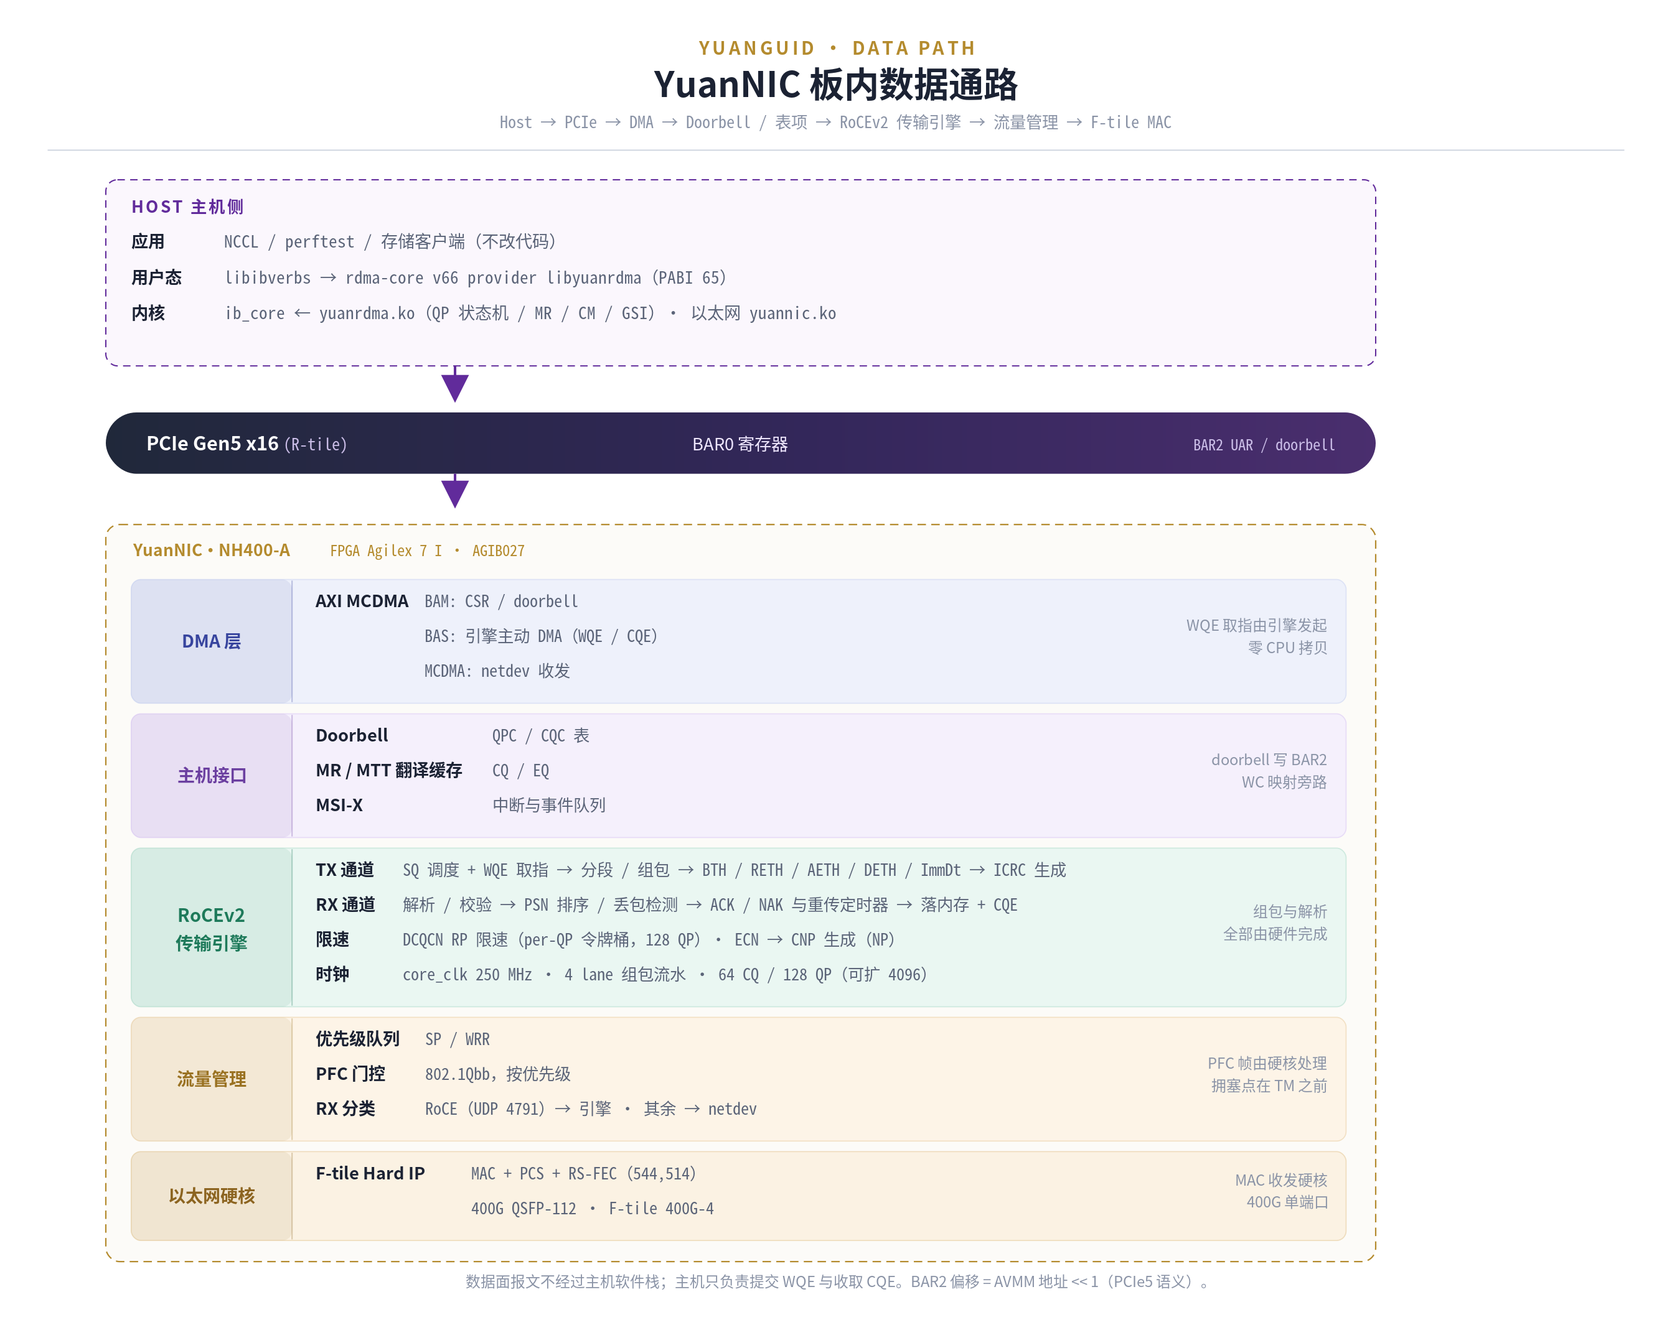
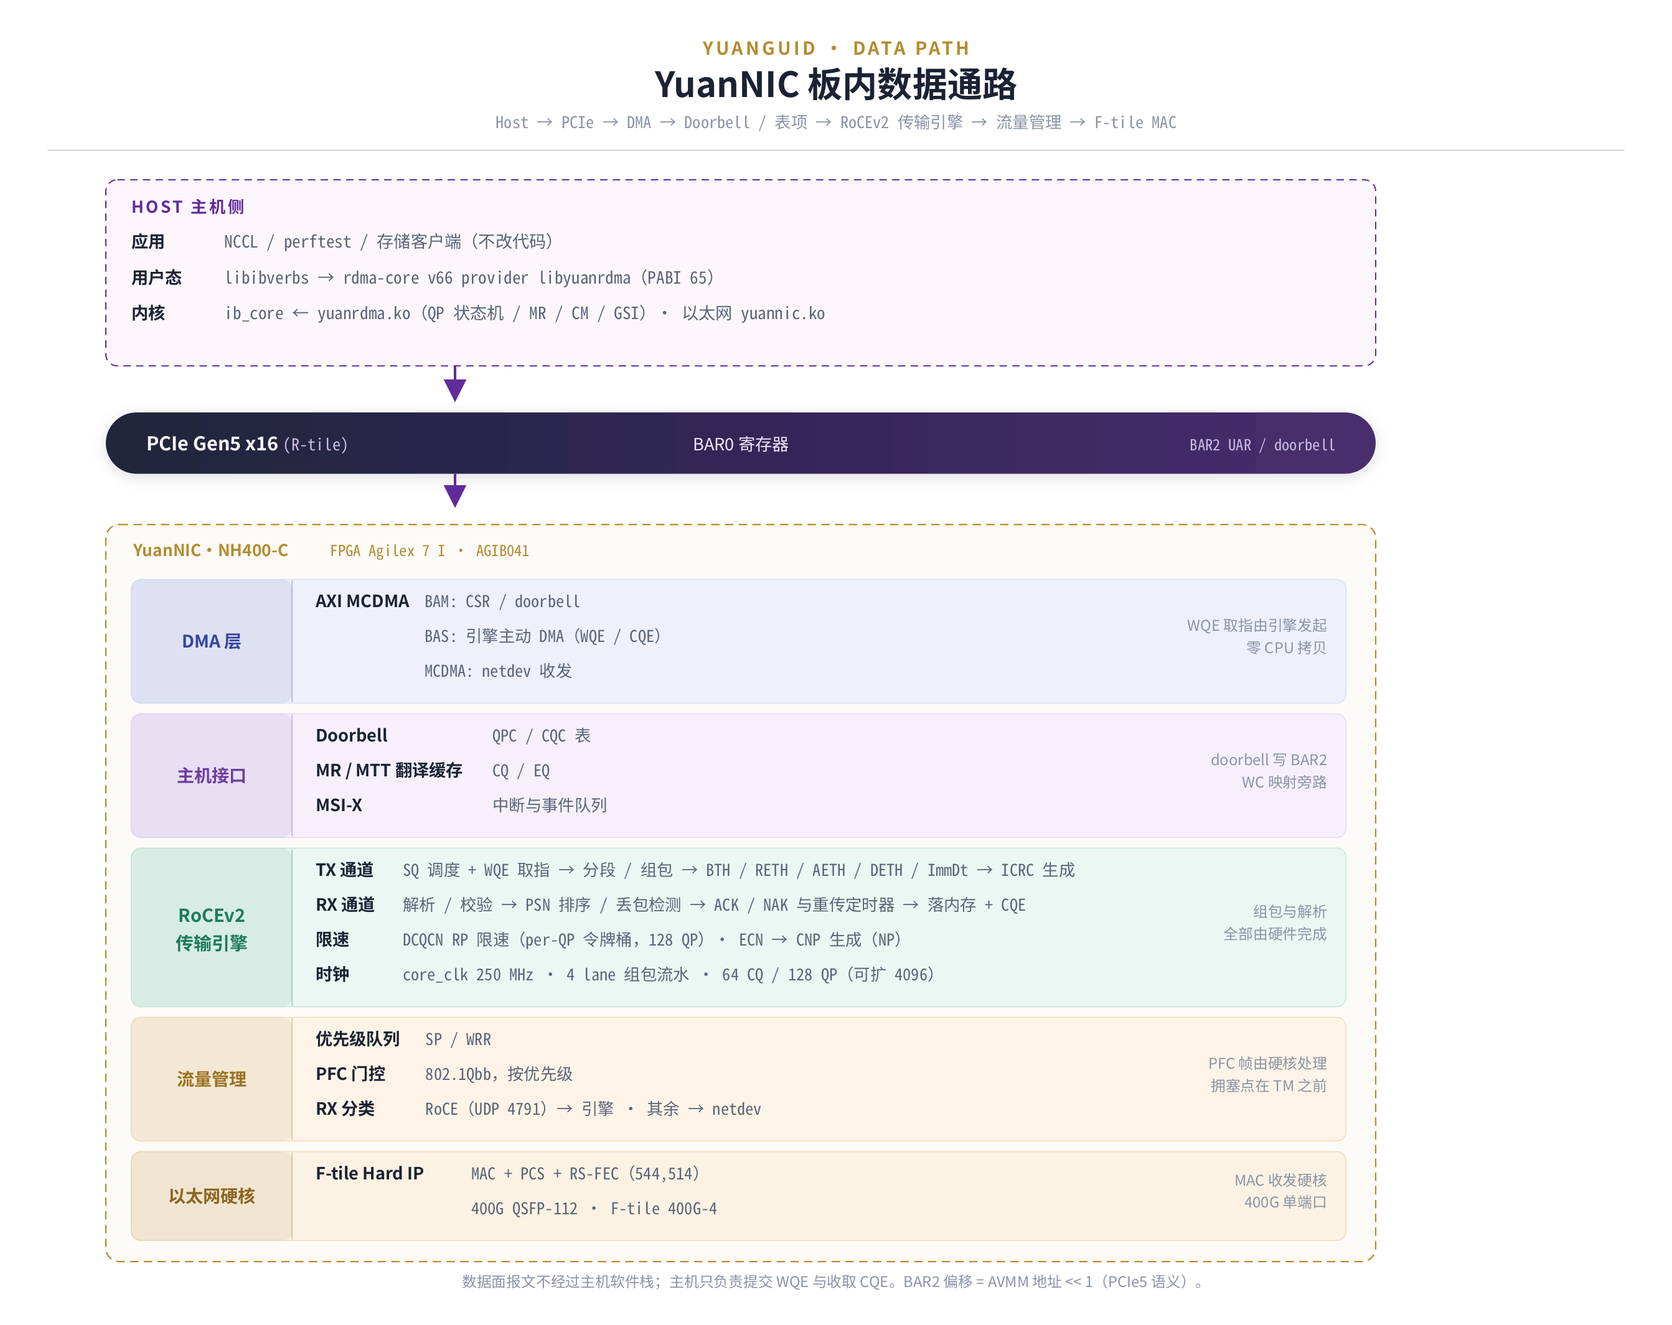
README：硬件规格与性能数据更新为 YuanNIC-NH400-C
- 硬件规格：FPGA 器件 AGIB041、网卡型号 YN400GA7B041C；尺寸、功耗等物理规格待补，暂去掉产品图
- 性能表与时延表换成 NH400-C 实测（镜像 R26.12.02-B0116，1 MiB / 30 s，双向）
- 架构图标注改为 NH400-C / AGIB041；INSTALL 的固件构建与交付包说明按单一板型更新

diff --git a/README.en.md b/README.en.md
@@ -146,7 +146,7 @@ Shipping forms include security gateways / firewalls, traffic-audit platforms, D
 ### 4.5 Continuous evolution
 
 - **Online firmware upgrade**: images are written to the configuration device over on-board Active Serial x4 (outputs `.sof` / `.rpd` / `.jic`). After the write the link re-enumerates and the drivers reload while the host OS keeps running — one script chains flash → re-enumerate → load drivers → configure network → self-check.
-- **Version rollback**: images are identified by version (card model `YN400GA7B027A` / C) and multiple versions coexist, so rolling back is flashing the previous image. Upgrades touch only the configuration device and install nothing into the host system.
+- **Version rollback**: images are identified by version (card model `YN400GA7B041C`) and multiple versions coexist, so rolling back is flashing the previous image. Upgrades touch only the configuration device and install nothing into the host system.
 - **Layered upgrades**: firmware, kernel drivers (built against `uname -r`), and the user-space provider and PMD evolve separately, so changing one does not disturb the others; with parameters readable and writable at run time, tuning needs no firmware rebuild and upgrading needs no OS reinstall.
 - **Diagnosable**: `yuancli` and `ynictrl` read registers and counters and export hang snapshots; together with perftest, `roce_perf_test.sh` regression runs and hardware-side packet capture, a fault can be traced from symptom to register state instead of guessed at.
 - **Interoperable with upper-layer software**: `rdma_cm`, NCCL and perftest keep their existing paths, while `yuancli` / `ynictrl` and the control plane expose read and drive access upward, so monitoring and policy fit into existing operations tooling.
@@ -184,18 +184,18 @@ Queues, tables and memory translation are consolidated below; the figures follow
 
 ## 6 Performance
 
-Setup: YuanNIC-NH400-A, peer NVIDIA ConnectX-7, 400GbE direct link, upstream perftest. Bandwidth cases use 1 MiB messages, 30 s each; latency cases use 2 B messages, 30 s each, and the tables list perftest's typical (median) values. Figures from image `R26.12.17-B6464-20261123-1X400G`.
+Setup: YuanNIC-NH400-C, peer NVIDIA ConnectX-7, 400GbE direct link, upstream perftest. Bandwidth cases use 1 MiB messages, 30 s each; latency cases use 2 B messages, 30 s each, and the tables list perftest's typical (median) values. Figures from image `R26.12.02-B0116-20261123-1X400G`.
 
 <table width="100%" style="width:100%;border:0;border-collapse:collapse">
 <tr><td style="border:0;padding:0">
 
 <table width="100%" style="width:100%">
 <tr><th style="width:26%">Test</th><th style="width:37%">YuanNIC as client</th><th style="width:37%">YuanNIC as server</th></tr>
-<tr><td style="width:26%"><code>ib_write_bw</code> (1 QP)</td><td style="width:37%"><strong>198.0 Gb/s (49.5%)</strong></td><td style="width:37%">99.9 Gb/s (25.0%)</td></tr>
-<tr><td style="width:26%"><code>ib_read_bw</code> (1 QP)</td><td style="width:37%">74.4 Gb/s (18.6%)</td><td style="width:37%">89.7 Gb/s (22.4%)</td></tr>
-<tr><td style="width:26%"><code>ib_send_bw</code> (1 QP)</td><td style="width:37%"><strong>198.1 Gb/s (49.5%)</strong></td><td style="width:37%">97.2 Gb/s (24.3%)</td></tr>
-<tr><td style="width:26%"><code>ib_write_bw</code> (4 QP)</td><td style="width:37%"><strong>352.1 Gb/s (88.0%)</strong></td><td style="width:37%">96.6 Gb/s (24.1%)</td></tr>
-<tr><td style="width:26%"><code>ib_read_bw</code> (4 QP)</td><td style="width:37%">99.3 Gb/s (24.8%)</td><td style="width:37%"><strong>328.2 Gb/s (82.1%)</strong></td></tr>
+<tr><td style="width:26%"><code>ib_write_bw</code> (1 QP)</td><td style="width:37%"><strong>198.1 Gb/s (49.5%)</strong></td><td style="width:37%">98.2 Gb/s (24.5%)</td></tr>
+<tr><td style="width:26%"><code>ib_read_bw</code> (1 QP)</td><td style="width:37%">74.4 Gb/s (18.6%)</td><td style="width:37%">89.8 Gb/s (22.5%)</td></tr>
+<tr><td style="width:26%"><code>ib_send_bw</code> (1 QP)</td><td style="width:37%"><strong>198.1 Gb/s (49.5%)</strong></td><td style="width:37%">97.4 Gb/s (24.4%)</td></tr>
+<tr><td style="width:26%"><code>ib_write_bw</code> (4 QP)</td><td style="width:37%"><strong>351.9 Gb/s (88.0%)</strong></td><td style="width:37%">96.9 Gb/s (24.2%)</td></tr>
+<tr><td style="width:26%"><code>ib_read_bw</code> (4 QP)</td><td style="width:37%">99.6 Gb/s (24.9%)</td><td style="width:37%"><strong>328.2 Gb/s (82.1%)</strong></td></tr>
 </table>
 
 </td></tr>
@@ -210,44 +210,34 @@ Latency (2 B messages, one-way, typical / p99):
 
 <table width="100%" style="width:100%">
 <tr><th style="width:26%">Test</th><th style="width:37%">YuanNIC as client</th><th style="width:37%">YuanNIC as server</th></tr>
-<tr><td style="width:26%"><code>ib_write_lat</code></td><td style="width:37%"><strong>2.46 / 2.69 µs</strong></td><td style="width:37%"><strong>2.44 / 2.66 µs</strong></td></tr>
-<tr><td style="width:26%"><code>ib_read_lat</code></td><td style="width:37%">3.68 / 3.97 µs</td><td style="width:37%">2.87 / 3.14 µs</td></tr>
-<tr><td style="width:26%"><code>ib_send_lat</code></td><td style="width:37%">2.38 / 2.54 µs</td><td style="width:37%">2.65 / 2.87 µs</td></tr>
+<tr><td style="width:26%"><code>ib_write_lat</code></td><td style="width:37%"><strong>2.53 / 2.75 µs</strong></td><td style="width:37%"><strong>2.45 / 2.65 µs</strong></td></tr>
+<tr><td style="width:26%"><code>ib_read_lat</code></td><td style="width:37%">4.25 / 4.50 µs</td><td style="width:37%">2.83 / 3.15 µs</td></tr>
+<tr><td style="width:26%"><code>ib_send_lat</code></td><td style="width:37%">2.75 / 2.92 µs</td><td style="width:37%">2.66 / 2.88 µs</td></tr>
 </table>
 
 </td></tr>
 </table>
 
-Write latency sits near 2.4 µs on both ends and barely moves with message size. Read latency is higher — 3.7 µs in the client direction — the cost of the responding data being copied serially on the receive side. p99 runs 0.1–0.3 µs above typical, most of it host-side interrupt and scheduling jitter; use typical when judging regressions across versions.
+Write latency sits near 2.5 µs on both ends and barely moves with message size. Read latency is higher — 4.3 µs in the client direction — the cost of the responding data being copied serially on the receive side. p99 runs 0.2–0.3 µs above typical, most of it host-side interrupt and scheduling jitter; use typical when judging regressions across versions.
 
 ## 7 Supported Hardware
 
 <table width="100%" style="width:100%;border:0;border-collapse:collapse">
-<tr>
-<td width="62%" valign="top" style="border:0;padding:0">
+<tr><td style="border:0;padding:0">
 
 <table width="100%" style="width:100%">
 <tr><th style="width:48%">Item</th><th style="width:52%">Specification</th></tr>
-<tr><td style="width:48%">Model</td><td style="width:52%">YuanNIC-NH400-A</td></tr>
-<tr><td style="width:48%">FPGA device</td><td style="width:52%">Agilex 7 I <code>AGIB027</code></td></tr>
+<tr><td style="width:48%">Model</td><td style="width:52%">YuanNIC-NH400-C</td></tr>
+<tr><td style="width:48%">FPGA device</td><td style="width:52%">Agilex 7 I <code>AGIB041</code></td></tr>
 <tr><td style="width:48%">Network port</td><td style="width:52%">1 × 400G QSFP-112 (F-tile 4x112)</td></tr>
 <tr><td style="width:48%">Port modes</td><td style="width:52%">1x400G / 1x200G / 1x100G / 1x40G on the same cage, set by firmware</td></tr>
 <tr><td style="width:48%">Host interface</td><td style="width:52%">PCIe Gen5 x16 (R-tile)</td></tr>
 <tr><td style="width:48%">Core clock</td><td style="width:52%">RoCE engine at 250 MHz</td></tr>
 <tr><td style="width:48%">Configuration</td><td style="width:52%">Active Serial x4</td></tr>
-<tr><td style="width:48%">Card model</td><td style="width:52%"><code>YN400GA7B027A</code> / C</td></tr>
-<tr><td style="width:48%">Form factor</td><td style="width:52%">Single slot, half-height half-length (with full-height bracket)</td></tr>
-<tr><td style="width:48%">Dimensions</td><td style="width:52%">169.5 × 68.9 × 18.5 mm</td></tr>
-<tr><td style="width:48%">Power</td><td style="width:52%">75 W max</td></tr>
-<tr><td style="width:48%">Cooling</td><td style="width:52%">Passive heatsink, relies on chassis airflow</td></tr>
-<tr><td style="width:48%">Operating temperature</td><td style="width:52%">0 – 55 ℃</td></tr>
+<tr><td style="width:48%">Card model</td><td style="width:52%"><code>YN400GA7B041C</code></td></tr>
 </table>
 
-</td>
-<td width="38%" valign="middle" align="center" style="border:0;padding:0">
-  <img src="docs/image/YuanNIC-NH400-A.png" alt="YuanNIC-NH400-A" width="300">
-</td>
-</tr>
+</td></tr>
 </table>
 
 The port mode is chosen at firmware build time and takes effect after link negotiation; switching rate changes only MAC and link-layer configuration, leaving the verbs interface and the software stack untouched. Interoperability is validated against NVIDIA ConnectX-7. PCIe Gen5 x16 keeps the host-side bandwidth roughly at parity with 400GbE line rate, so the host interface does not become the first bottleneck.
@@ -295,7 +285,7 @@ test/sim/rtl_prebuild_gate.sh --lint-only  # wiring check only (seconds)
 ### 9.3 Build the FPGA firmware
 
 ```bash
-cd build/YuanNIC-NH400-A
+cd build/YuanNIC-NH400-C
 ./yuannic_build.sh <VER> <BUILD> <PORT_MODE> [all|boot|active]
 ./yuannic_build.sh 1 1 1X400G boot        # single 400G port
 ./yuannic_build.sh 2 1 1X200G active      # drop to 200G

diff --git a/README.md b/README.md
@@ -146,7 +146,7 @@ YuanSec 以 FPGA 并行计算加 DPDK 转发为数据面，把检测与密码运
 ### 4.5 持续迭代
 
 - **固件在线升级**：镜像经板载 Active Serial x4 写入配置器件（产物 `.sof` / `.rpd` / `.jic`）；升级后 PCIe 重枚举、驱动重新加载，主机操作系统不重启，一条脚本串起烧写 → 重枚举 → 加载驱动 → 配网 → 自检。
-- **版本可回退**：镜像以版本号标识（网卡型号 `YN400GA7B027A` / C），多版本并存，回退即烧回旧镜像；升级只动配置器件，不向主机系统安装任何文件。
+- **版本可回退**：镜像以版本号标识（网卡型号 `YN400GA7B041C`），多版本并存，回退即烧回旧镜像；升级只动配置器件，不向主机系统安装任何文件。
 - **分层独立升级**：固件、内核驱动（随 `uname -r` 编译）、用户态 provider 与 PMD 各自独立演进，改一层不必动另两层；加上参数在线读写，调参不重编固件、升级不重装系统。
 - **问题可定位**：`yuancli` 与 `ynictrl` 读取寄存器与计数器、导出卡死现场快照，配合 perftest、`roce_perf_test.sh` 回归与硬件侧镜像抓包，故障可从现象追到寄存器状态，不必靠猜。
 - **与上层软件联动**：对内保持 `rdma_cm`、NCCL 与 perftest 的既有路径；对外经 `yuancli` / `ynictrl` 与配置面开放读写与操控，监控与策略可纳入既有运维体系。
@@ -184,18 +184,18 @@ YuanSec 以 FPGA 并行计算加 DPDK 转发为数据面，把检测与密码运
 
 ## 6 性能
 
-测试条件：YuanNIC-NH400-A，对端 NVIDIA ConnectX-7，400GbE 直连，原版 perftest。带宽用例消息 1 MiB、每项 30 s；延迟用例消息 2 B、每项 30 s，表中取 perftest 的典型值（typical，中位）。数据取自镜像 `R26.12.17-B6464-20261123-1X400G`。
+测试条件：YuanNIC-NH400-C，对端 NVIDIA ConnectX-7，400GbE 直连，原版 perftest。带宽用例消息 1 MiB、每项 30 s；延迟用例消息 2 B、每项 30 s，表中取 perftest 的典型值（typical，中位）。数据取自镜像 `R26.12.02-B0116-20261123-1X400G`。
 
 <table width="100%" style="width:100%;border:0;border-collapse:collapse">
 <tr><td style="border:0;padding:0">
 
 <table width="100%" style="width:100%">
 <tr><th style="width:26%">用例</th><th style="width:37%">YuanNIC 作客户端</th><th style="width:37%">YuanNIC 作服务端</th></tr>
-<tr><td style="width:26%"><code>ib_write_bw</code>（1 QP）</td><td style="width:37%"><strong>198.0 Gb/s（49.5%）</strong></td><td style="width:37%">99.9 Gb/s（25.0%）</td></tr>
-<tr><td style="width:26%"><code>ib_read_bw</code>（1 QP）</td><td style="width:37%">74.4 Gb/s（18.6%）</td><td style="width:37%">89.7 Gb/s（22.4%）</td></tr>
-<tr><td style="width:26%"><code>ib_send_bw</code>（1 QP）</td><td style="width:37%"><strong>198.1 Gb/s（49.5%）</strong></td><td style="width:37%">97.2 Gb/s（24.3%）</td></tr>
-<tr><td style="width:26%"><code>ib_write_bw</code>（4 QP）</td><td style="width:37%"><strong>352.1 Gb/s（88.0%）</strong></td><td style="width:37%">96.6 Gb/s（24.1%）</td></tr>
-<tr><td style="width:26%"><code>ib_read_bw</code>（4 QP）</td><td style="width:37%">99.3 Gb/s（24.8%）</td><td style="width:37%"><strong>328.2 Gb/s（82.1%）</strong></td></tr>
+<tr><td style="width:26%"><code>ib_write_bw</code>（1 QP）</td><td style="width:37%"><strong>198.1 Gb/s（49.5%）</strong></td><td style="width:37%">98.2 Gb/s（24.5%）</td></tr>
+<tr><td style="width:26%"><code>ib_read_bw</code>（1 QP）</td><td style="width:37%">74.4 Gb/s（18.6%）</td><td style="width:37%">89.8 Gb/s（22.5%）</td></tr>
+<tr><td style="width:26%"><code>ib_send_bw</code>（1 QP）</td><td style="width:37%"><strong>198.1 Gb/s（49.5%）</strong></td><td style="width:37%">97.4 Gb/s（24.4%）</td></tr>
+<tr><td style="width:26%"><code>ib_write_bw</code>（4 QP）</td><td style="width:37%"><strong>351.9 Gb/s（88.0%）</strong></td><td style="width:37%">96.9 Gb/s（24.2%）</td></tr>
+<tr><td style="width:26%"><code>ib_read_bw</code>（4 QP）</td><td style="width:37%">99.6 Gb/s（24.9%）</td><td style="width:37%"><strong>328.2 Gb/s（82.1%）</strong></td></tr>
 </table>
 
 </td></tr>
@@ -210,44 +210,34 @@ YuanSec 以 FPGA 并行计算加 DPDK 转发为数据面，把检测与密码运
 
 <table width="100%" style="width:100%">
 <tr><th style="width:26%">用例</th><th style="width:37%">YuanNIC 作客户端</th><th style="width:37%">YuanNIC 作服务端</th></tr>
-<tr><td style="width:26%"><code>ib_write_lat</code></td><td style="width:37%"><strong>2.46 / 2.69 µs</strong></td><td style="width:37%"><strong>2.44 / 2.66 µs</strong></td></tr>
-<tr><td style="width:26%"><code>ib_read_lat</code></td><td style="width:37%">3.68 / 3.97 µs</td><td style="width:37%">2.87 / 3.14 µs</td></tr>
-<tr><td style="width:26%"><code>ib_send_lat</code></td><td style="width:37%">2.38 / 2.54 µs</td><td style="width:37%">2.65 / 2.87 µs</td></tr>
+<tr><td style="width:26%"><code>ib_write_lat</code></td><td style="width:37%"><strong>2.53 / 2.75 µs</strong></td><td style="width:37%"><strong>2.45 / 2.65 µs</strong></td></tr>
+<tr><td style="width:26%"><code>ib_read_lat</code></td><td style="width:37%">4.25 / 4.50 µs</td><td style="width:37%">2.83 / 3.15 µs</td></tr>
+<tr><td style="width:26%"><code>ib_send_lat</code></td><td style="width:37%">2.75 / 2.92 µs</td><td style="width:37%">2.66 / 2.88 µs</td></tr>
 </table>
 
 </td></tr>
 </table>
 
-写时延两端都在 2.4 µs 附近，与消息长度基本无关；读时延在客户端方向上偏高到 3.7 µs，是响应数据在接收侧串行搬运的代价。p99 与 typical 相差 0.1–0.3 µs，主要来自主机侧中断与调度抖动，评估跨版本回归时以 typical 为准。
+写时延两端都在 2.5 µs 附近，与消息长度基本无关；读时延在客户端方向上偏高到 4.3 µs，是响应数据在接收侧串行搬运的代价。p99 与 typical 相差 0.2–0.3 µs，主要来自主机侧中断与调度抖动，评估跨版本回归时以 typical 为准。
 
 ## 7 支持的硬件
 
 <table width="100%" style="width:100%;border:0;border-collapse:collapse">
-<tr>
-<td width="62%" valign="top" style="border:0;padding:0">
+<tr><td style="border:0;padding:0">
 
 <table width="100%" style="width:100%">
 <tr><th style="width:48%">项</th><th style="width:52%">规格</th></tr>
-<tr><td style="width:48%">型号</td><td style="width:52%">YuanNIC-NH400-A</td></tr>
-<tr><td style="width:48%">FPGA 器件</td><td style="width:52%">Agilex 7 I <code>AGIB027</code></td></tr>
+<tr><td style="width:48%">型号</td><td style="width:52%">YuanNIC-NH400-C</td></tr>
+<tr><td style="width:48%">FPGA 器件</td><td style="width:52%">Agilex 7 I <code>AGIB041</code></td></tr>
 <tr><td style="width:48%">网口</td><td style="width:52%">1 × 400G QSFP-112（F-tile 4x112）</td></tr>
 <tr><td style="width:48%">端口模式</td><td style="width:52%">1x400G / 1x200G / 1x100G / 1x40G（同一 400G 笼口，按固件配置）</td></tr>
 <tr><td style="width:48%">主机接口</td><td style="width:52%">PCIe Gen5 x16（R-tile）</td></tr>
 <tr><td style="width:48%">核心时钟</td><td style="width:52%">RoCE 引擎 250 MHz</td></tr>
 <tr><td style="width:48%">配置方式</td><td style="width:52%">Active Serial x4</td></tr>
-<tr><td style="width:48%">网卡型号</td><td style="width:52%"><code>YN400GA7B027A</code> / C</td></tr>
-<tr><td style="width:48%">形态</td><td style="width:52%">单槽半高半长（配全高挡片）</td></tr>
-<tr><td style="width:48%">尺寸</td><td style="width:52%">169.5 × 68.9 × 18.5 mm</td></tr>
-<tr><td style="width:48%">功耗</td><td style="width:52%">最大 75 W</td></tr>
-<tr><td style="width:48%">散热</td><td style="width:52%">被动散热，依赖机箱风道</td></tr>
-<tr><td style="width:48%">工作温度</td><td style="width:52%">0 – 55 ℃</td></tr>
+<tr><td style="width:48%">网卡型号</td><td style="width:52%"><code>YN400GA7B041C</code></td></tr>
 </table>
 
-</td>
-<td width="38%" valign="middle" align="center" style="border:0;padding:0">
-  <img src="docs/image/YuanNIC-NH400-A.png" alt="YuanNIC-NH400-A" width="300">
-</td>
-</tr>
+</td></tr>
 </table>
 
 端口模式随固件编译选定，上板后按链路协商生效；速率切换只改 MAC 与链路层配置，verbs 接口与上层软件栈保持不变。互通性以 NVIDIA ConnectX-7 为对端验证。PCIe Gen5 x16 的主机侧带宽与 400GbE 线速基本对等，避免主机接口先成为瓶颈。
@@ -295,7 +285,7 @@ test/sim/rtl_prebuild_gate.sh --lint-only  # 只跑连线检查（秒级）
 ### 9.3 编译 FPGA 固件
 
 ```bash
-cd build/YuanNIC-NH400-A
+cd build/YuanNIC-NH400-C
 ./yuannic_build.sh <VER> <BUILD> <PORT_MODE> [all|boot|active]
 ./yuannic_build.sh 1 1 1X400G boot        # 400G 单口
 ./yuannic_build.sh 2 1 1X200G active      # 降到 200G

diff --git a/INSTALL.md b/INSTALL.md
@@ -258,12 +258,11 @@ YuanNIC_User_Package/
 ├── ko/         yuanrdma.ko / yuanmcdma.ko / yuannic.ko
 ├── env.sh      运行前 source，切换库与程序路径
 ├── tools/      flash_and_init.sh / roce_perf_test.sh
-└── firmware/   每块板最新一版固件：.jic（整片 flash）/ .rpd（在线升级）/ .sof（JTAG 临时加载）+ SHA256SUMS
+└── firmware/   最新一版固件：.jic（整片 flash）/ .rpd（在线升级）/ .sof（JTAG 临时加载）+ SHA256SUMS
 ```
 
-`firmware/` 取自仓库根 `firmware/`（可用 `YUANNIC_FW_DIR` 指定），每块板按「日期，再按 Build 号」各选最新一版；
-只要某块板时用 `YUANNIC_FW_BOARDS=C ./yuannic_user_build.sh`。包内 `tools/flash_and_init.sh --flash <镜像名>`
-直接在包内 `firmware/` 里找镜像，并按型号段选 flash 器件（C 卡 MX66U2G，其余 MT25QU02G）。
+`firmware/` 取自仓库根 `firmware/`（可用 `YUANNIC_FW_DIR` 指定），按「日期，再按 Build 号」选最新一版。
+包内 `tools/flash_and_init.sh --flash <镜像名>` 直接在包内 `firmware/` 里找镜像，配置 flash 器件为 MX66U2G。
 
 每次使用前：
 
@@ -276,9 +275,9 @@ source build/user_tools/YuanNIC_User_Package/env.sh
 **需要第 5 节的 Quartus。**
 
 ```bash
-cd build/YuanNIC-NH400-A
+cd build/YuanNIC-NH400-C
 ./yuannic_build.sh <VER> <BUILD> 1X400G [all|boot|active]
-# 例：./yuannic_build.sh 26.12.16 6457 1X400G all
+# 例：./yuannic_build.sh 26.12.02 0116 1X400G all
 ```
 
 | 参数 | 含义 |
